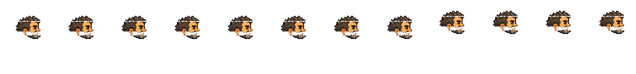
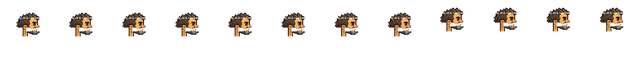
Versión 93: cabezas algo más pequeñas y con cuello (la cabeza sube y el cuello baja hasta la camisa), para que no parezcan pegadas
Claude-Session: https://claude.ai/code/session_016LDX8s9ZoDhMCEDmCMU4bZ

diff --git a/public/index.html b/public/index.html
@@ -221,7 +221,7 @@ var SB_KEY = 'sb_publishable_1-eGqPkYOPKsW-ZEtUBo7A_16RQQGdK';
 var ATAJO = 'La Otra Comunidad';
 var STEPS_PER_KM = 1350, TOTAL_KM = 115;
 var LUGAR = {nombre:'Madrid', lat:40.43, lon:-3.81};
-var M = {"tramos": [[{"src": "assets/tramos/t1v_0.webp?v=162fa4d7", "y": -192, "v": 0.4, "hd": 3, "espejo": true}, {"src": "assets/tramos/t1v_1.webp?v=4642bb2a", "y": 209, "v": 1.0, "hd": 3, "espejo": true}], [{"src": "assets/tramos/t2v_0.webp?v=2ac7595f", "y": -192, "v": 0.4, "hd": 3, "espejo": true}, {"src": "assets/tramos/t2v_1.webp?v=07659e6a", "y": 209, "v": 1.0, "hd": 3, "espejo": true}], [{"src": "assets/tramos/t3v_0.webp?v=fb33aab2", "y": -192, "v": 0.4, "hd": 3, "espejo": true}, {"src": "assets/tramos/t3v_1.webp?v=42750449", "y": 209, "v": 1.0, "hd": 3, "espejo": true}], [{"src": "assets/tramos/t4v_0.webp?v=c2718a9c", "y": -192, "v": 0.4, "hd": 3, "espejo": true}, {"src": "assets/tramos/t4v_1.webp?v=0b370de7", "y": 209, "v": 1.0, "hd": 3, "espejo": true}], [{"src": "assets/tramos/t5_0.webp?v=f06aecc3", "y": 0, "v": 0.08}, {"src": "assets/tramos/t5_1.webp?v=f3abdd6c", "y": 31, "v": 0.3}, {"src": "assets/tramos/t5_2.webp?v=5110b3be", "y": 85, "v": 0.55}, {"src": "assets/tramos/t5_3.webp?v=a1aa4814", "y": 192, "v": 1.0}], [{"src": "assets/tramos/t6v_0.webp?v=380a0d06", "y": -192, "v": 0.4, "hd": 3, "espejo": true}, {"src": "assets/tramos/t6v_1.webp?v=ff66a92b", "y": 209, "v": 1.0, "hd": 3, "espejo": true}], [{"src": "assets/tramos/t7b_0.webp?v=4c93d6ac", "y": -192, "v": 0.4, "hd": 3, "espejo": true}, {"src": "assets/tramos/t7b_1.webp?v=16982fdd", "y": 210, "v": 1.0, "hd": 3, "espejo": true}], [{"src": "assets/tramos/t8b_0.webp?v=e0185a6c", "y": -192, "v": 0.4, "hd": 3, "espejo": true}, {"src": "assets/tramos/t8b_1.webp?v=5989f657", "y": 210, "v": 1.0, "hd": 3, "espejo": true}]], "arturo": ["assets/pj/arturo_normal.webp?v=7db8d380", "assets/pj/arturo_lluvia.webp?v=410e29f0", "assets/pj/arturo_noche.webp?v=a85f8b09", "assets/pj/arturo_calor.webp?v=5248314d"], "vecinos": ["assets/pj/vecino_1.webp?v=8c5299d1", "assets/pj/vecino_2.webp?v=0ad454f5", "assets/pj/vecino_3.webp?v=7460ffb8", "assets/pj/vecino_4.webp?v=a9dbcc5b"], "faces": "assets/pj/caras9.webp?v=749b1655", "logo": "assets/logo.webp?v=6e5698e6", "mj": {"pan": "assets/mj/zurron_pan.webp?v=eef983d0", "manta": "assets/mj/zurron_manta.webp?v=496c23db", "cuerda": "assets/mj/zurron_cuerda.webp?v=01c52897", "cantimplora": "assets/mj/zurron_cantimplora.webp?v=834316a1", "queso": "assets/mj/zurron_queso.webp?v=7897f985", "mapa": "assets/mj/zurron_mapa.webp?v=77a52314", "farol": "assets/mj/zurron_farol.webp?v=503f7f85", "pipa": "assets/mj/zurron_pipa.webp?v=ff72de42", "sillon": "assets/mj/zurron_sillon.webp?v=e2de97af", "reloj": "assets/mj/zurron_reloj.webp?v=f2e9850f", "cucharas": "assets/mj/zurron_cucharas.webp?v=ddf4903c", "paraguas": "assets/mj/zurron_paraguas.webp?v=29a8c29a", "jarron": "assets/mj/zurron_jarron.webp?v=0e426668", "libraco": "assets/mj/zurron_libraco.webp?v=d1d0c91f", "arbol": "assets/mj/arbol.webp?v=1d1e130a", "jinete1": "assets/mj/jinete1.webp?v=1bdb694e", "jinete2": "assets/mj/jinete2.webp?v=3dc1bbb4", "anillo": "assets/mj/anillo.webp?v=f785c169", "seta1": "assets/mj/seta1.webp?v=9166bdf3", "seta2": "assets/mj/seta2.webp?v=93212779", "seta3": "assets/mj/seta3.webp?v=a212aa81", "perro1": "assets/mj/perro1.webp?v=69bf8c3a", "perro2": "assets/mj/perro2.webp?v=b3a10435", "perro3": "assets/mj/perro3.webp?v=a5e4e2f7", "hoyo": "assets/mj/hoyo.webp?v=d29f43a1", "balsa1": "assets/mj/balsa1.webp?v=d45a7f5d", "balsa2": "assets/mj/balsa2.webp?v=d2719116", "rio": "assets/mj/rio.webp?v=aafc6b10", "muelle": "assets/mj/muelle.webp?v=592eaa57", "sombra": "assets/mj/sombra.webp?v=0652e012", "juncos": "assets/mj/juncos.webp?v=74e1fdc4"}, "papiro": "assets/papiro.webp?v=abe066ba", "andar": {"src": "assets/pj/arturo_andar.webp?v=7e62a290", "n": 6, "fw": 53.0, "h": 74}, "mapa": {"src": "assets/mapa2.webp?v=ce21c701", "w": 1200, "h": 4050, "ruta": [[596, 4048], [596, 4013], [456, 3532], [694, 3372], [745, 3094], [604, 2913], [623, 2816], [640, 2699], [655, 2640], [627, 2506], [603, 2143], [639, 1918], [609, 1630], [679, 1534], [656, 1331], [660, 1230], [677, 1154], [726, 1037], [658, 973], [578, 732], [641, 561], [507, 433], [615, 315], [654, 70], [654, 0]], "lugares": [[0, "Bols\u00f3n Cerrado", 4013], [5, "Delagua", 3532], [15, "Colinas Verdes", 3372], [35, "Bosque Cerrado", 3094], [55, "Atajo", 2913], [75, "La granja", 2816], [90, "Calzada", 2699], [110, "Balsadera", 2640], [115, "Cricava", 2506], [120, "La Cerca", 2143], [130, "Bosque Viejo", 1918], [145, "El Tornasauce", 1630], [150, "Casa de Tom Bombadil", 1534], [175, "Quebradas de los T\u00famulos", 1331], [200, "Camino del Este", 1230], [210, "Bree", 1154], [225, "Bosque de Chet", 1037], [250, "Pantanos de Moscagua", 973], [370, "Cima de los Vientos", 732], [530, "Puente \u00daltimo", 561], [600, "Landas de los Trolls", 433], [720, "Vado del Bruinen", 315], [740, "Rivendel", 70]]}, "equipo": {"capa": "assets/eq/capa.webp?v=0122b549", "sombrero": "assets/eq/sombrero.webp?v=f7dfac1a", "panuelo_sam": "assets/eq/panuelo_sam.webp?v=1a80a564", "cazo": "assets/eq/cazo.webp?v=22f7f48c", "broche": "assets/eq/broche.webp?v=6109e8ac", "panuelo_rojo": "assets/eq/panuelo_rojo.webp?v=fd15a308", "cantimplora_cinto": "assets/eq/cantimplora_cinto.webp?v=00c887d2", "pluma": "assets/eq/pluma.webp?v=1d6b2dd4", "gafas": "assets/eq/gafas.webp?v=0f0b85f1", "tiara": "assets/eq/tiara.webp?v=7de8e48f"}, "prologo": {"video": "assets/prologo/prologo.mp4?v=6f226176", "poster": "assets/prologo/poster.webp?v=0afee73e", "casa": "assets/prologo/casa.webp?v=e13a1dd5"}, "ilustraciones": ["assets/prologo/forja.webp?v=3a138e40", "assets/prologo/anillo.webp?v=0773b67f", "assets/prologo/guerra.webp?v=3dbb76a0", "assets/prologo/caido.webp?v=3f00fc99", "assets/prologo/rio.webp?v=f0525166", "assets/prologo/cueva.webp?v=53a6de1b", "assets/prologo/puerta.webp?v=9be18752", "assets/prologo/camino.webp?v=8554a997"], "npc": {"mago": ["assets/pj/mago_normal.webp?v=2dcb7716", "assets/pj/mago_lluvia.webp?v=3e964785", "assets/pj/mago_noche.webp?v=f6641a57", "assets/pj/mago_calor.webp?v=c90085e7"], "sombrero_azul": ["assets/pj/sombrero_azul_normal.webp?v=49dc044e", "assets/pj/sombrero_azul_lluvia.webp?v=dd90bf2a", "assets/pj/sombrero_azul_noche.webp?v=cf98f05d", "assets/pj/sombrero_azul_calor.webp?v=d65dd5f8"]}, "libro": {"0": "assets/libro/p1.webp?v=ef869ff9", "1": "assets/libro/p2.webp?v=6100887a", "2": "assets/libro/p3.webp?v=f87fd195", "3": "assets/libro/p4.webp?v=8c0c0014", "4": "assets/libro/p5.webp?v=a47588b7", "5": "assets/libro/p6.webp?v=7950004b", "6": "assets/libro/p7.webp?v=d7e44576", "7": "assets/libro/p8.webp?v=6766a419"}, "ropa": {"pantalon": "assets/pj/ropa_pantalon.webp?v=c61a7146", "capa": "assets/pj/ropa_capa.webp?v=e1faa8bf", "capa_f": "assets/pj/ropa_capa_f.webp?v=0c709b85", "capaFrame": {"fw": 84, "ox": -31}}, "props": {"senal": "assets/props/senal.webp?v=e7b2f572", "ovejas": "assets/props/ovejas.webp?v=311f376f", "carretilla": "assets/props/carretilla.webp?v=056e52f2", "piedra": "assets/props/piedra.webp?v=b27db386", "lena": "assets/props/lena.webp?v=4165f85f", "colmenas": "assets/props/colmenas.webp?v=b70b723c", "valla": "assets/props/valla.webp?v=4d295390", "setas": "assets/props/setas.webp?v=ce1dae4d", "pozo": "assets/props/pozo.webp?v=037c838e", "banco": "assets/props/banco.webp?v=c317202b", "zorro": "assets/props/zorro.webp?v=2bfaa8b8", "carro_heno": "assets/props/carro_heno.webp?v=d90f13e9"}, "escenas": [{"km": 9, "capas": [{"src": "assets/tramos/e09v_0.webp?v=9b272767", "y": -192, "v": 0.4, "hd": 3, "espejo": true}, {"src": "assets/tramos/e09v_1.webp?v=626f2e28", "y": 209, "v": 1.0, "hd": 3, "espejo": true}]}, {"km": 25, "capas": [{"src": "assets/tramos/e25_0.webp?v=f874360c", "y": -192, "v": 0.4, "hd": 3, "espejo": true}, {"src": "assets/tramos/e25_1.webp?v=dc8516e2", "y": 209, "v": 1.0, "hd": 3, "espejo": true}]}, {"km": 45, "capas": [{"src": "assets/tramos/e45_0.webp?v=0c496962", "y": -192, "v": 0.4, "hd": 3, "espejo": true}, {"src": "assets/tramos/e45_1.webp?v=f8b71963", "y": 209, "v": 1.0, "hd": 3, "espejo": true}]}, {"km": 65, "capas": [{"src": "assets/tramos/e65_0.webp?v=a730a4cb", "y": -192, "v": 0.4, "hd": 3, "espejo": true}, {"src": "assets/tramos/e65_1.webp?v=af390ea6", "y": 209, "v": 1.0, "hd": 3, "espejo": true}]}, {"km": 80, "capas": [{"src": "assets/tramos/e80_0.webp?v=2ae90a84", "y": -192, "v": 0.4, "hd": 3, "espejo": true}, {"src": "assets/tramos/e80_1.webp?v=656134e8", "y": 209, "v": 1.0, "hd": 3, "espejo": true}]}, {"km": 100, "capas": [{"src": "assets/tramos/e100_0.webp?v=96b4d4c3", "y": -192, "v": 0.4, "hd": 3, "espejo": true}, {"src": "assets/tramos/e100_1.webp?v=ff63ade0", "y": 209, "v": 1.0, "hd": 3, "espejo": true}]}, {"km": 113, "capas": [{"src": "assets/tramos/e113_0.webp?v=2f8c2840", "y": -192, "v": 0.4, "hd": 3, "espejo": true}, {"src": "assets/tramos/e113_1.webp?v=343cbb60", "y": 209, "v": 1.0, "hd": 3, "espejo": true}]}], "objetos": {"casa": "assets/mj/obj_casa.webp?v=11955867", "pipa": "assets/mj/obj_pipa.webp?v=9310f0ce", "hoja": "assets/mj/obj_hoja.webp?v=a4fb68a5", "estrella": "assets/mj/obj_estrella.webp?v=2718a702", "cayado": "assets/mj/obj_cayado.webp?v=346609ad", "cesta": "assets/mj/obj_cesta.webp?v=d1e05991", "farol": "assets/mj/obj_farol.webp?v=3c67590e", "balsa": "assets/mj/obj_balsa.webp?v=fcd81db0"}, "ropaIco": {"capa": "assets/eq/capa.webp?v=0122b549", "capa_verde": "assets/eq/capa_verde.webp?v=b5cc373a", "capa_granate": "assets/eq/capa_granate.webp?v=ec0bde53", "capa_gris": "assets/eq/capa_gris.webp?v=d2a75931", "pant_verde": "assets/eq/pant_verde.webp?v=1b3a8a49", "pant_azul": "assets/eq/pant_azul.webp?v=873e7563", "pant_gris": "assets/eq/pant_gris.webp?v=dc39d40e", "pant_mostaza": "assets/eq/pant_mostaza.webp?v=a53bb81c"}, "andarPJ": {"fer": {"src": "assets/pj/andar_fer.webp?v=a1960a01", "pantalon": "assets/pj/ropa_pantalon_fer.webp?v=ddc157ee", "capa": "assets/pj/ropa_capa_fer.webp?v=4ec3bc47", "capa_f": "assets/pj/ropa_capa_f_fer.webp?v=16a7a4cc", "n": 8, "ms": 160, "vel": 0.0356, "dx": [0, -3, 2, 2, -3, -3, 3, 4]}, "patri": {"src": "assets/pj/andar_patri.webp?v=6ce8bf24", "pantalon": "assets/pj/ropa_pantalon_patri.webp?v=3f92d97d", "capa": "assets/pj/ropa_capa_patri.webp?v=69ac1f75", "capa_f": "assets/pj/ropa_capa_f_patri.webp?v=a9eb8c68", "n": 8, "ms": 160, "vel": 0.0356, "dx": [0, -3, 2, 2, -3, -3, 3, 4]}, "juanpablo": {"src": "assets/pj/andar_juanpablo.webp?v=c89365f6", "pantalon": "assets/pj/ropa_pantalon_juanpablo.webp?v=eabcf1f7", "capa": "assets/pj/ropa_capa_juanpablo.webp?v=ef786ba2", "capa_f": "assets/pj/ropa_capa_f_juanpablo.webp?v=084549cb", "n": 8, "ms": 160, "vel": 0.0356, "dx": [0, 0, 0, 0, 0, 0, 0, 0]}, "arturo": {"src": "assets/pj/andar_arturo.webp?v=c15a4cbf", "pantalon": "assets/pj/ropa_pantalon_arturo.webp?v=5fb87995", "capa": "assets/pj/ropa_capa_arturo.webp?v=0658b58c", "capa_f": "assets/pj/ropa_capa_f_arturo.webp?v=f4b0b94a", "n": 8, "ms": 160, "vel": 0.0344, "dx": [0, -4, 0, 4, 0, -4, 0, 4]}, "edo": {"src": "assets/pj/andar_edo.webp?v=874feaf0", "pantalon": "assets/pj/ropa_pantalon_edo.webp?v=be0ca919", "capa": "assets/pj/ropa_capa_edo.webp?v=16ef3acf", "capa_f": "assets/pj/ropa_capa_f_edo.webp?v=50e3d11f", "n": 8, "ms": 160, "vel": 0.0344, "dx": [0, -4, 0, 4, 0, -4, 0, 4]}}, "menu": {"forja": "assets/menu/forja.webp?v=32eaa4c1", "anillo": "assets/menu/anillo.webp?v=2edff033", "chispas": {"src": "assets/menu/chispas.webp?v=7a0e8284", "n": 6, "fw": 125, "h": 262}, "herrero": {"src": "assets/menu/herrero.webp?v=8d4a16d2", "n": 4, "fw": 320, "h": 295}}, "ui": {"redondo": "assets/ui/redondo.webp?v=553a38ab", "redondo_on": "assets/ui/redondo_on.webp?v=d47c1e86", "largo": "assets/ui/largo.webp?v=21b6a8ab", "largo_on": "assets/ui/largo_on.webp?v=b4d3082f", "i_mapa": "assets/ui/i_mapa.webp?v=baf5a951", "i_libro": "assets/ui/i_libro.webp?v=65e306af", "i_comunidad": "assets/ui/i_comunidad.webp?v=ba394914", "i_zurron": "assets/ui/i_zurron.webp?v=801f3a01", "i_sync": "assets/ui/i_sync.webp?v=56462d84", "i_hoja": "assets/ui/i_hoja.webp?v=f8fe9299", "placa_pasos": "assets/ui/placa_pasos.webp?v=12bec8e1", "destellos": "assets/ui/destellos.webp?v=b74326dc", "fondo_menu": "assets/ui/fondo_menu.webp?v=0cf7211a", "hoja_menu": "assets/ui/hoja_menu.webp?v=82f13f93"}, "facesN": 9, "quietoPJ": {"fer": {"src": "assets/pj/quieto_fer.webp?v=2d287b87", "pantalon": "assets/pj/ropa_pantalon_quieto_fer.webp?v=2a5fa9ec", "capa": "assets/pj/ropa_capa_quieto_fer.webp?v=748a63a8", "capa_f": "assets/pj/ropa_capa_f_quieto_fer.webp?v=9d786b24", "n": 4, "ms": 450}, "patri": {"src": "assets/pj/quieto_patri.webp?v=e8935790", "pantalon": "assets/pj/ropa_pantalon_quieto_patri.webp?v=b4969e48", "capa": "assets/pj/ropa_capa_quieto_patri.webp?v=26634d11", "capa_f": "assets/pj/ropa_capa_f_quieto_patri.webp?v=328aff4d", "n": 4, "ms": 450}, "adrian": {"src": "assets/pj/quieto_adrian.webp?v=b81deb89", "pantalon": "assets/pj/ropa_pantalon_quieto_adrian.webp?v=5525cad1", "capa": "assets/pj/ropa_capa_quieto_adrian.webp?v=a22c0b8a", "capa_f": "assets/pj/ropa_capa_f_quieto_adrian.webp?v=6c51806e", "n": 4, "ms": 450}, "carlos": {"src": "assets/pj/quieto_carlos.webp?v=c5a30670", "pantalon": "assets/pj/ropa_pantalon_quieto_carlos.webp?v=b82e99a6", "capa": "assets/pj/ropa_capa_quieto_carlos.webp?v=5d3f98c6", "capa_f": "assets/pj/ropa_capa_f_quieto_carlos.webp?v=d8920044", "n": 4, "ms": 450}, "juanpablo": {"src": "assets/pj/quieto_juanpablo.webp?v=6e704838", "pantalon": "assets/pj/ropa_pantalon_quieto_juanpablo.webp?v=cd8fb44e", "capa": "assets/pj/ropa_capa_quieto_juanpablo.webp?v=c7daa765", "capa_f": "assets/pj/ropa_capa_f_quieto_juanpablo.webp?v=383cb623", "n": 4, "ms": 450}, "arturo": {"src": "assets/pj/quieto_arturo.webp?v=a137794f", "pantalon": "assets/pj/ropa_pantalon_quieto_arturo.webp?v=41e5d86c", "capa": "assets/pj/ropa_capa_quieto_arturo.webp?v=4d687a5b", "capa_f": "assets/pj/ropa_capa_f_quieto_arturo.webp?v=31b81915", "n": 4, "ms": 450}, "edo": {"src": "assets/pj/quieto_edo.webp?v=25a809fa", "pantalon": "assets/pj/ropa_pantalon_quieto_edo.webp?v=ec1ecdb7", "capa": "assets/pj/ropa_capa_quieto_edo.webp?v=f5d0127d", "capa_f": "assets/pj/ropa_capa_f_quieto_edo.webp?v=ff69cc07", "n": 4, "ms": 450}}, "fp": [{"tramo": 3, "fondo": "assets/fp/bosque_fondo.webp?v=d94309cc", "delante": "assets/fp/bosque_delante.webp?v=4903fead", "manos": {"src": "assets/fp/manos.webp?v=7ba225f5", "n": 4, "fw": 325, "h": 434}, "fuga": [0.5, 0.56], "luces": [[0.47, 0.565], [0.51, 0.548], [0.545, 0.565], [0.455, 0.575]], "hasta": 45}], "escenaElfos": ["assets/escenas/elfos1.webp?v=821cfc4d", "assets/escenas/elfos2.webp?v=a89595ed", "assets/escenas/elfos3.webp?v=2f3b37c6"], "entreactos": {"1": {"video": "assets/entreactos/acto1.mp4?v=24d497d1", "poster": "assets/entreactos/acto1.webp?v=4f4a3739"}}, "capas": {"capas": {"cuerpo": "assets/pj/capas/cuerpo.webp?v=66200e3b", "capa": "assets/pj/capas/capa.webp?v=2d14e53d", "pantalon": "assets/pj/capas/pantalon.webp?v=fc330ced", "mochila": "assets/pj/capas/mochila.webp?v=8a00b540", "cantimplora": "assets/pj/capas/cantimplora.webp?v=6987245d"}, "cabezas": {"arturo": "assets/pj/capas/cab_arturo.webp?v=7631a187", "fer": "assets/pj/capas/cab_fer.webp?v=3834c5a4", "patri": "assets/pj/capas/cab_patri.webp?v=92709a21", "edo": "assets/pj/capas/cab_edo.webp?v=76d60fe6", "carlos": "assets/pj/capas/cab_carlos.webp?v=f7a64187", "porru": "assets/pj/capas/cab_porru.webp?v=c176ee6e", "adrian": "assets/pj/capas/cab_adrian.webp?v=1cf2c8cd", "rodri": "assets/pj/capas/cab_rodri.webp?v=266318a2", "juanpablo": "assets/pj/capas/cab_juanpablo.webp?v=bbc0f2f8"}}};
+var M = {"tramos": [[{"src": "assets/tramos/t1v_0.webp?v=162fa4d7", "y": -192, "v": 0.4, "hd": 3, "espejo": true}, {"src": "assets/tramos/t1v_1.webp?v=4642bb2a", "y": 209, "v": 1.0, "hd": 3, "espejo": true}], [{"src": "assets/tramos/t2v_0.webp?v=2ac7595f", "y": -192, "v": 0.4, "hd": 3, "espejo": true}, {"src": "assets/tramos/t2v_1.webp?v=07659e6a", "y": 209, "v": 1.0, "hd": 3, "espejo": true}], [{"src": "assets/tramos/t3v_0.webp?v=fb33aab2", "y": -192, "v": 0.4, "hd": 3, "espejo": true}, {"src": "assets/tramos/t3v_1.webp?v=42750449", "y": 209, "v": 1.0, "hd": 3, "espejo": true}], [{"src": "assets/tramos/t4v_0.webp?v=c2718a9c", "y": -192, "v": 0.4, "hd": 3, "espejo": true}, {"src": "assets/tramos/t4v_1.webp?v=0b370de7", "y": 209, "v": 1.0, "hd": 3, "espejo": true}], [{"src": "assets/tramos/t5_0.webp?v=f06aecc3", "y": 0, "v": 0.08}, {"src": "assets/tramos/t5_1.webp?v=f3abdd6c", "y": 31, "v": 0.3}, {"src": "assets/tramos/t5_2.webp?v=5110b3be", "y": 85, "v": 0.55}, {"src": "assets/tramos/t5_3.webp?v=a1aa4814", "y": 192, "v": 1.0}], [{"src": "assets/tramos/t6v_0.webp?v=380a0d06", "y": -192, "v": 0.4, "hd": 3, "espejo": true}, {"src": "assets/tramos/t6v_1.webp?v=ff66a92b", "y": 209, "v": 1.0, "hd": 3, "espejo": true}], [{"src": "assets/tramos/t7b_0.webp?v=4c93d6ac", "y": -192, "v": 0.4, "hd": 3, "espejo": true}, {"src": "assets/tramos/t7b_1.webp?v=16982fdd", "y": 210, "v": 1.0, "hd": 3, "espejo": true}], [{"src": "assets/tramos/t8b_0.webp?v=e0185a6c", "y": -192, "v": 0.4, "hd": 3, "espejo": true}, {"src": "assets/tramos/t8b_1.webp?v=5989f657", "y": 210, "v": 1.0, "hd": 3, "espejo": true}]], "arturo": ["assets/pj/arturo_normal.webp?v=7db8d380", "assets/pj/arturo_lluvia.webp?v=410e29f0", "assets/pj/arturo_noche.webp?v=a85f8b09", "assets/pj/arturo_calor.webp?v=5248314d"], "vecinos": ["assets/pj/vecino_1.webp?v=8c5299d1", "assets/pj/vecino_2.webp?v=0ad454f5", "assets/pj/vecino_3.webp?v=7460ffb8", "assets/pj/vecino_4.webp?v=a9dbcc5b"], "faces": "assets/pj/caras9.webp?v=749b1655", "logo": "assets/logo.webp?v=6e5698e6", "mj": {"pan": "assets/mj/zurron_pan.webp?v=eef983d0", "manta": "assets/mj/zurron_manta.webp?v=496c23db", "cuerda": "assets/mj/zurron_cuerda.webp?v=01c52897", "cantimplora": "assets/mj/zurron_cantimplora.webp?v=834316a1", "queso": "assets/mj/zurron_queso.webp?v=7897f985", "mapa": "assets/mj/zurron_mapa.webp?v=77a52314", "farol": "assets/mj/zurron_farol.webp?v=503f7f85", "pipa": "assets/mj/zurron_pipa.webp?v=ff72de42", "sillon": "assets/mj/zurron_sillon.webp?v=e2de97af", "reloj": "assets/mj/zurron_reloj.webp?v=f2e9850f", "cucharas": "assets/mj/zurron_cucharas.webp?v=ddf4903c", "paraguas": "assets/mj/zurron_paraguas.webp?v=29a8c29a", "jarron": "assets/mj/zurron_jarron.webp?v=0e426668", "libraco": "assets/mj/zurron_libraco.webp?v=d1d0c91f", "arbol": "assets/mj/arbol.webp?v=1d1e130a", "jinete1": "assets/mj/jinete1.webp?v=1bdb694e", "jinete2": "assets/mj/jinete2.webp?v=3dc1bbb4", "anillo": "assets/mj/anillo.webp?v=f785c169", "seta1": "assets/mj/seta1.webp?v=9166bdf3", "seta2": "assets/mj/seta2.webp?v=93212779", "seta3": "assets/mj/seta3.webp?v=a212aa81", "perro1": "assets/mj/perro1.webp?v=69bf8c3a", "perro2": "assets/mj/perro2.webp?v=b3a10435", "perro3": "assets/mj/perro3.webp?v=a5e4e2f7", "hoyo": "assets/mj/hoyo.webp?v=d29f43a1", "balsa1": "assets/mj/balsa1.webp?v=d45a7f5d", "balsa2": "assets/mj/balsa2.webp?v=d2719116", "rio": "assets/mj/rio.webp?v=aafc6b10", "muelle": "assets/mj/muelle.webp?v=592eaa57", "sombra": "assets/mj/sombra.webp?v=0652e012", "juncos": "assets/mj/juncos.webp?v=74e1fdc4"}, "papiro": "assets/papiro.webp?v=abe066ba", "andar": {"src": "assets/pj/arturo_andar.webp?v=7e62a290", "n": 6, "fw": 53.0, "h": 74}, "mapa": {"src": "assets/mapa2.webp?v=ce21c701", "w": 1200, "h": 4050, "ruta": [[596, 4048], [596, 4013], [456, 3532], [694, 3372], [745, 3094], [604, 2913], [623, 2816], [640, 2699], [655, 2640], [627, 2506], [603, 2143], [639, 1918], [609, 1630], [679, 1534], [656, 1331], [660, 1230], [677, 1154], [726, 1037], [658, 973], [578, 732], [641, 561], [507, 433], [615, 315], [654, 70], [654, 0]], "lugares": [[0, "Bols\u00f3n Cerrado", 4013], [5, "Delagua", 3532], [15, "Colinas Verdes", 3372], [35, "Bosque Cerrado", 3094], [55, "Atajo", 2913], [75, "La granja", 2816], [90, "Calzada", 2699], [110, "Balsadera", 2640], [115, "Cricava", 2506], [120, "La Cerca", 2143], [130, "Bosque Viejo", 1918], [145, "El Tornasauce", 1630], [150, "Casa de Tom Bombadil", 1534], [175, "Quebradas de los T\u00famulos", 1331], [200, "Camino del Este", 1230], [210, "Bree", 1154], [225, "Bosque de Chet", 1037], [250, "Pantanos de Moscagua", 973], [370, "Cima de los Vientos", 732], [530, "Puente \u00daltimo", 561], [600, "Landas de los Trolls", 433], [720, "Vado del Bruinen", 315], [740, "Rivendel", 70]]}, "equipo": {"capa": "assets/eq/capa.webp?v=0122b549", "sombrero": "assets/eq/sombrero.webp?v=f7dfac1a", "panuelo_sam": "assets/eq/panuelo_sam.webp?v=1a80a564", "cazo": "assets/eq/cazo.webp?v=22f7f48c", "broche": "assets/eq/broche.webp?v=6109e8ac", "panuelo_rojo": "assets/eq/panuelo_rojo.webp?v=fd15a308", "cantimplora_cinto": "assets/eq/cantimplora_cinto.webp?v=00c887d2", "pluma": "assets/eq/pluma.webp?v=1d6b2dd4", "gafas": "assets/eq/gafas.webp?v=0f0b85f1", "tiara": "assets/eq/tiara.webp?v=7de8e48f"}, "prologo": {"video": "assets/prologo/prologo.mp4?v=6f226176", "poster": "assets/prologo/poster.webp?v=0afee73e", "casa": "assets/prologo/casa.webp?v=e13a1dd5"}, "ilustraciones": ["assets/prologo/forja.webp?v=3a138e40", "assets/prologo/anillo.webp?v=0773b67f", "assets/prologo/guerra.webp?v=3dbb76a0", "assets/prologo/caido.webp?v=3f00fc99", "assets/prologo/rio.webp?v=f0525166", "assets/prologo/cueva.webp?v=53a6de1b", "assets/prologo/puerta.webp?v=9be18752", "assets/prologo/camino.webp?v=8554a997"], "npc": {"mago": ["assets/pj/mago_normal.webp?v=2dcb7716", "assets/pj/mago_lluvia.webp?v=3e964785", "assets/pj/mago_noche.webp?v=f6641a57", "assets/pj/mago_calor.webp?v=c90085e7"], "sombrero_azul": ["assets/pj/sombrero_azul_normal.webp?v=49dc044e", "assets/pj/sombrero_azul_lluvia.webp?v=dd90bf2a", "assets/pj/sombrero_azul_noche.webp?v=cf98f05d", "assets/pj/sombrero_azul_calor.webp?v=d65dd5f8"]}, "libro": {"0": "assets/libro/p1.webp?v=ef869ff9", "1": "assets/libro/p2.webp?v=6100887a", "2": "assets/libro/p3.webp?v=f87fd195", "3": "assets/libro/p4.webp?v=8c0c0014", "4": "assets/libro/p5.webp?v=a47588b7", "5": "assets/libro/p6.webp?v=7950004b", "6": "assets/libro/p7.webp?v=d7e44576", "7": "assets/libro/p8.webp?v=6766a419"}, "ropa": {"pantalon": "assets/pj/ropa_pantalon.webp?v=c61a7146", "capa": "assets/pj/ropa_capa.webp?v=e1faa8bf", "capa_f": "assets/pj/ropa_capa_f.webp?v=0c709b85", "capaFrame": {"fw": 84, "ox": -31}}, "props": {"senal": "assets/props/senal.webp?v=e7b2f572", "ovejas": "assets/props/ovejas.webp?v=311f376f", "carretilla": "assets/props/carretilla.webp?v=056e52f2", "piedra": "assets/props/piedra.webp?v=b27db386", "lena": "assets/props/lena.webp?v=4165f85f", "colmenas": "assets/props/colmenas.webp?v=b70b723c", "valla": "assets/props/valla.webp?v=4d295390", "setas": "assets/props/setas.webp?v=ce1dae4d", "pozo": "assets/props/pozo.webp?v=037c838e", "banco": "assets/props/banco.webp?v=c317202b", "zorro": "assets/props/zorro.webp?v=2bfaa8b8", "carro_heno": "assets/props/carro_heno.webp?v=d90f13e9"}, "escenas": [{"km": 9, "capas": [{"src": "assets/tramos/e09v_0.webp?v=9b272767", "y": -192, "v": 0.4, "hd": 3, "espejo": true}, {"src": "assets/tramos/e09v_1.webp?v=626f2e28", "y": 209, "v": 1.0, "hd": 3, "espejo": true}]}, {"km": 25, "capas": [{"src": "assets/tramos/e25_0.webp?v=f874360c", "y": -192, "v": 0.4, "hd": 3, "espejo": true}, {"src": "assets/tramos/e25_1.webp?v=dc8516e2", "y": 209, "v": 1.0, "hd": 3, "espejo": true}]}, {"km": 45, "capas": [{"src": "assets/tramos/e45_0.webp?v=0c496962", "y": -192, "v": 0.4, "hd": 3, "espejo": true}, {"src": "assets/tramos/e45_1.webp?v=f8b71963", "y": 209, "v": 1.0, "hd": 3, "espejo": true}]}, {"km": 65, "capas": [{"src": "assets/tramos/e65_0.webp?v=a730a4cb", "y": -192, "v": 0.4, "hd": 3, "espejo": true}, {"src": "assets/tramos/e65_1.webp?v=af390ea6", "y": 209, "v": 1.0, "hd": 3, "espejo": true}]}, {"km": 80, "capas": [{"src": "assets/tramos/e80_0.webp?v=2ae90a84", "y": -192, "v": 0.4, "hd": 3, "espejo": true}, {"src": "assets/tramos/e80_1.webp?v=656134e8", "y": 209, "v": 1.0, "hd": 3, "espejo": true}]}, {"km": 100, "capas": [{"src": "assets/tramos/e100_0.webp?v=96b4d4c3", "y": -192, "v": 0.4, "hd": 3, "espejo": true}, {"src": "assets/tramos/e100_1.webp?v=ff63ade0", "y": 209, "v": 1.0, "hd": 3, "espejo": true}]}, {"km": 113, "capas": [{"src": "assets/tramos/e113_0.webp?v=2f8c2840", "y": -192, "v": 0.4, "hd": 3, "espejo": true}, {"src": "assets/tramos/e113_1.webp?v=343cbb60", "y": 209, "v": 1.0, "hd": 3, "espejo": true}]}], "objetos": {"casa": "assets/mj/obj_casa.webp?v=11955867", "pipa": "assets/mj/obj_pipa.webp?v=9310f0ce", "hoja": "assets/mj/obj_hoja.webp?v=a4fb68a5", "estrella": "assets/mj/obj_estrella.webp?v=2718a702", "cayado": "assets/mj/obj_cayado.webp?v=346609ad", "cesta": "assets/mj/obj_cesta.webp?v=d1e05991", "farol": "assets/mj/obj_farol.webp?v=3c67590e", "balsa": "assets/mj/obj_balsa.webp?v=fcd81db0"}, "ropaIco": {"capa": "assets/eq/capa.webp?v=0122b549", "capa_verde": "assets/eq/capa_verde.webp?v=b5cc373a", "capa_granate": "assets/eq/capa_granate.webp?v=ec0bde53", "capa_gris": "assets/eq/capa_gris.webp?v=d2a75931", "pant_verde": "assets/eq/pant_verde.webp?v=1b3a8a49", "pant_azul": "assets/eq/pant_azul.webp?v=873e7563", "pant_gris": "assets/eq/pant_gris.webp?v=dc39d40e", "pant_mostaza": "assets/eq/pant_mostaza.webp?v=a53bb81c"}, "andarPJ": {"fer": {"src": "assets/pj/andar_fer.webp?v=a1960a01", "pantalon": "assets/pj/ropa_pantalon_fer.webp?v=ddc157ee", "capa": "assets/pj/ropa_capa_fer.webp?v=4ec3bc47", "capa_f": "assets/pj/ropa_capa_f_fer.webp?v=16a7a4cc", "n": 8, "ms": 160, "vel": 0.0356, "dx": [0, -3, 2, 2, -3, -3, 3, 4]}, "patri": {"src": "assets/pj/andar_patri.webp?v=6ce8bf24", "pantalon": "assets/pj/ropa_pantalon_patri.webp?v=3f92d97d", "capa": "assets/pj/ropa_capa_patri.webp?v=69ac1f75", "capa_f": "assets/pj/ropa_capa_f_patri.webp?v=a9eb8c68", "n": 8, "ms": 160, "vel": 0.0356, "dx": [0, -3, 2, 2, -3, -3, 3, 4]}, "juanpablo": {"src": "assets/pj/andar_juanpablo.webp?v=c89365f6", "pantalon": "assets/pj/ropa_pantalon_juanpablo.webp?v=eabcf1f7", "capa": "assets/pj/ropa_capa_juanpablo.webp?v=ef786ba2", "capa_f": "assets/pj/ropa_capa_f_juanpablo.webp?v=084549cb", "n": 8, "ms": 160, "vel": 0.0356, "dx": [0, 0, 0, 0, 0, 0, 0, 0]}, "arturo": {"src": "assets/pj/andar_arturo.webp?v=c15a4cbf", "pantalon": "assets/pj/ropa_pantalon_arturo.webp?v=5fb87995", "capa": "assets/pj/ropa_capa_arturo.webp?v=0658b58c", "capa_f": "assets/pj/ropa_capa_f_arturo.webp?v=f4b0b94a", "n": 8, "ms": 160, "vel": 0.0344, "dx": [0, -4, 0, 4, 0, -4, 0, 4]}, "edo": {"src": "assets/pj/andar_edo.webp?v=874feaf0", "pantalon": "assets/pj/ropa_pantalon_edo.webp?v=be0ca919", "capa": "assets/pj/ropa_capa_edo.webp?v=16ef3acf", "capa_f": "assets/pj/ropa_capa_f_edo.webp?v=50e3d11f", "n": 8, "ms": 160, "vel": 0.0344, "dx": [0, -4, 0, 4, 0, -4, 0, 4]}}, "menu": {"forja": "assets/menu/forja.webp?v=32eaa4c1", "anillo": "assets/menu/anillo.webp?v=2edff033", "chispas": {"src": "assets/menu/chispas.webp?v=7a0e8284", "n": 6, "fw": 125, "h": 262}, "herrero": {"src": "assets/menu/herrero.webp?v=8d4a16d2", "n": 4, "fw": 320, "h": 295}}, "ui": {"redondo": "assets/ui/redondo.webp?v=553a38ab", "redondo_on": "assets/ui/redondo_on.webp?v=d47c1e86", "largo": "assets/ui/largo.webp?v=21b6a8ab", "largo_on": "assets/ui/largo_on.webp?v=b4d3082f", "i_mapa": "assets/ui/i_mapa.webp?v=baf5a951", "i_libro": "assets/ui/i_libro.webp?v=65e306af", "i_comunidad": "assets/ui/i_comunidad.webp?v=ba394914", "i_zurron": "assets/ui/i_zurron.webp?v=801f3a01", "i_sync": "assets/ui/i_sync.webp?v=56462d84", "i_hoja": "assets/ui/i_hoja.webp?v=f8fe9299", "placa_pasos": "assets/ui/placa_pasos.webp?v=12bec8e1", "destellos": "assets/ui/destellos.webp?v=b74326dc", "fondo_menu": "assets/ui/fondo_menu.webp?v=0cf7211a", "hoja_menu": "assets/ui/hoja_menu.webp?v=82f13f93"}, "facesN": 9, "quietoPJ": {"fer": {"src": "assets/pj/quieto_fer.webp?v=2d287b87", "pantalon": "assets/pj/ropa_pantalon_quieto_fer.webp?v=2a5fa9ec", "capa": "assets/pj/ropa_capa_quieto_fer.webp?v=748a63a8", "capa_f": "assets/pj/ropa_capa_f_quieto_fer.webp?v=9d786b24", "n": 4, "ms": 450}, "patri": {"src": "assets/pj/quieto_patri.webp?v=e8935790", "pantalon": "assets/pj/ropa_pantalon_quieto_patri.webp?v=b4969e48", "capa": "assets/pj/ropa_capa_quieto_patri.webp?v=26634d11", "capa_f": "assets/pj/ropa_capa_f_quieto_patri.webp?v=328aff4d", "n": 4, "ms": 450}, "adrian": {"src": "assets/pj/quieto_adrian.webp?v=b81deb89", "pantalon": "assets/pj/ropa_pantalon_quieto_adrian.webp?v=5525cad1", "capa": "assets/pj/ropa_capa_quieto_adrian.webp?v=a22c0b8a", "capa_f": "assets/pj/ropa_capa_f_quieto_adrian.webp?v=6c51806e", "n": 4, "ms": 450}, "carlos": {"src": "assets/pj/quieto_carlos.webp?v=c5a30670", "pantalon": "assets/pj/ropa_pantalon_quieto_carlos.webp?v=b82e99a6", "capa": "assets/pj/ropa_capa_quieto_carlos.webp?v=5d3f98c6", "capa_f": "assets/pj/ropa_capa_f_quieto_carlos.webp?v=d8920044", "n": 4, "ms": 450}, "juanpablo": {"src": "assets/pj/quieto_juanpablo.webp?v=6e704838", "pantalon": "assets/pj/ropa_pantalon_quieto_juanpablo.webp?v=cd8fb44e", "capa": "assets/pj/ropa_capa_quieto_juanpablo.webp?v=c7daa765", "capa_f": "assets/pj/ropa_capa_f_quieto_juanpablo.webp?v=383cb623", "n": 4, "ms": 450}, "arturo": {"src": "assets/pj/quieto_arturo.webp?v=a137794f", "pantalon": "assets/pj/ropa_pantalon_quieto_arturo.webp?v=41e5d86c", "capa": "assets/pj/ropa_capa_quieto_arturo.webp?v=4d687a5b", "capa_f": "assets/pj/ropa_capa_f_quieto_arturo.webp?v=31b81915", "n": 4, "ms": 450}, "edo": {"src": "assets/pj/quieto_edo.webp?v=25a809fa", "pantalon": "assets/pj/ropa_pantalon_quieto_edo.webp?v=ec1ecdb7", "capa": "assets/pj/ropa_capa_quieto_edo.webp?v=f5d0127d", "capa_f": "assets/pj/ropa_capa_f_quieto_edo.webp?v=ff69cc07", "n": 4, "ms": 450}}, "fp": [{"tramo": 3, "fondo": "assets/fp/bosque_fondo.webp?v=d94309cc", "delante": "assets/fp/bosque_delante.webp?v=4903fead", "manos": {"src": "assets/fp/manos.webp?v=7ba225f5", "n": 4, "fw": 325, "h": 434}, "fuga": [0.5, 0.56], "luces": [[0.47, 0.565], [0.51, 0.548], [0.545, 0.565], [0.455, 0.575]], "hasta": 45}], "escenaElfos": ["assets/escenas/elfos1.webp?v=821cfc4d", "assets/escenas/elfos2.webp?v=a89595ed", "assets/escenas/elfos3.webp?v=2f3b37c6"], "entreactos": {"1": {"video": "assets/entreactos/acto1.mp4?v=24d497d1", "poster": "assets/entreactos/acto1.webp?v=4f4a3739"}}, "capas": {"capas": {"cuerpo": "assets/pj/capas/cuerpo.webp?v=66200e3b", "capa": "assets/pj/capas/capa.webp?v=2d14e53d", "pantalon": "assets/pj/capas/pantalon.webp?v=fc330ced", "mochila": "assets/pj/capas/mochila.webp?v=8a00b540", "cantimplora": "assets/pj/capas/cantimplora.webp?v=6987245d"}, "cabezas": {"arturo": "assets/pj/capas/cab_arturo.webp?v=1e887d1c", "fer": "assets/pj/capas/cab_fer.webp?v=2d348472", "patri": "assets/pj/capas/cab_patri.webp?v=2049b85b", "edo": "assets/pj/capas/cab_edo.webp?v=b253ae95", "carlos": "assets/pj/capas/cab_carlos.webp?v=aef9f28a", "porru": "assets/pj/capas/cab_porru.webp?v=f725902e", "adrian": "assets/pj/capas/cab_adrian.webp?v=fc9d4feb", "rodri": "assets/pj/capas/cab_rodri.webp?v=0bfc12ad", "juanpablo": "assets/pj/capas/cab_juanpablo.webp?v=986fa199"}}};
 var FACE = {porru:0, adrian:1, carlos:2, fer:3, edo:4, rodri:5, arturo:6, patri:7, juanpablo:8};
 var FACEN = M.facesN||7;
 var ICON = {

diff --git a/public/sw.js b/public/sw.js
@@ -1,5 +1,5 @@
 /* La Otra Comunidad · caché básica para que abra rápido y funcione con mala cobertura */
-var C='loc-v91';
+var C='loc-v92';
 self.addEventListener('install',function(e){ self.skipWaiting(); });
 self.addEventListener('activate',function(e){ e.waitUntil(caches.keys().then(function(k){ return Promise.all(k.filter(function(x){return x!==C;}).map(function(x){return caches.delete(x);})); }).then(function(){ return self.clients.claim(); })); });
 self.addEventListener('fetch',function(e){

diff --git a/tools/capas.py b/tools/capas.py
@@ -1,6 +1,6 @@
 """Personajes por capas: maniquí cian común (las hojas de objetos de ChatGPT) + cabeza de cada hobbit + objetos.
 uso: python3 tools/capas.py  -> vista previa en tools/capas/prev_*.png (de momento solo prueba)"""
-import numpy as np, sys
+import numpy as np, sys, os
 from PIL import Image
 from scipy import ndimage
 D='tools/capas/'
@@ -74,6 +74,30 @@ def cabeza(f):
     face_x=hx.max()-hx.min()
     ct=ys.min(); cx_=np.nonzero(cyn[ct:ct+8].any(0))[0].mean()   # donde empieza el cuerpo cian, bajo la cabeza
     nx=cx_-hx.min()
+    # CUELLO: se estira hacia abajo la franja de piel de la base de la cabeza (los píxeles del propio dibujo)
+    NECK=int(os.environ.get('CUELLO',4))   # px de juego
+    G=S*MH/mh*float(os.environ.get('ESC_CAB',0.80))   # px de juego por px de esta imagen
+    R=rgba.astype(int); al=R[...,3]>0; rr,gg,bb=R[...,0],R[...,1],R[...,2]
+    piel=al&(rr>150)&(rr>gg+15)&(gg>bb+5)
+    ncx=int(round(nx)); hh=R.shape[0]; win=slice(max(0,ncx-int(9/G)),ncx+int(9/G))
+    rows=[y for y in range(hh-1,int(hh*0.6),-1) if piel[y,win].sum()>=max(3,int(2/G))]
+    if rows and NECK>0:
+        y=rows[0]; n=int(round(NECK/G)); w=int(round(2.6/G))       # cuello estrecho, detrás de la barbilla
+        tono=np.median(R[piel][:,:3],0); osc=np.percentile(R[al][:,:3].sum(1),5)
+        borde=R[al][R[al][:,:3].sum(1)<=osc][:,:3].mean(0) if (R[al][:,:3].sum(1)<=osc).any() else np.array([43,29,14])
+        c0=int(round(nx-w*1.2)); c1=c0+2*w; ext=np.zeros((n,R.shape[1],4),np.uint8)
+        ext[:,c0:c1,:3]=tono; ext[:,c0:c1,3]=255
+        ext[:,c0:c1,:3]=(ext[:,c0:c1,:3]*np.linspace(0.78,1.0,c1-c0)[None,:,None]).astype(np.uint8)   # sombra hacia atrás
+        e=max(1,int(round(0.7/G))); ext[:,c0:c0+e,:3]=borde; ext[:,c1-e:c1,:3]=borde                 # contorno
+        # la cabeza entera sube n filas; debajo, solo en la franja del cuello, se rellena hasta el cuerpo
+        base=ct-hy.min()                     # fila de la cabeza que antes tocaba el cuerpo
+        fin=base+n+int(round(1/G))            # el cuello baja n filas (+1 px dentro de la camisa)
+        out=np.concatenate([rgba,np.zeros((max(0,fin-rgba.shape[0]),R.shape[1],4),np.uint8)],0)
+        for x in range(c0,c1):
+            ys=np.nonzero(out[:fin,x,3]>0)[0]; y0=(ys.max()+1) if len(ys) else base
+            out[y0:fin,x]=ext[0,x]
+            out[y0:min(fin,y0+max(1,n//3)),x,:3]=(out[y0:min(fin,y0+max(1,n//3)),x,:3]*0.8).astype(np.uint8)  # sombra bajo la barbilla
+        return Image.fromarray(out,'RGBA'), mh, base+n, nx   # la cabeza queda n filas más alta
     return Image.fromarray(rgba,'RGBA'), mh, ct-hy.min(), nx
 def frames(rgba,head=None,orden=None):
     out=[]
@@ -84,7 +108,7 @@ def frames(rgba,head=None,orden=None):
             cell.alpha_composite(Image.fromarray(L[max(0,y0):y1,x0:x1],'RGBA'),(0,max(0,-y0)))
         for L in (orden or []): cell.alpha_composite(Image.fromarray(L[max(0,y0):y1,x0:x1],'RGBA'),(0,max(0,-y0)))
         if head:
-            im,mh,nk,nx=head; k=MH/mh*0.85; hi=im.resize((round(im.width*k),round(im.height*k)),Image.LANCZOS)
+            im,mh,nk,nx=head; k=MH/mh*float(os.environ.get('ESC_CAB',0.80)); hi=im.resize((round(im.width*k),round(im.height*k)),Image.LANCZOS)
             # la nuca del maniquí y el cuello de la cabeza, alineados; la cara hacia la derecha del eje
             cell.alpha_composite(hi,(int(round(c['hx']-x0-nx*k)),int(round(c['hb']-y0-nk*k+2/S))))
         out.append(cell.resize((FW,FH),Image.LANCZOS))
